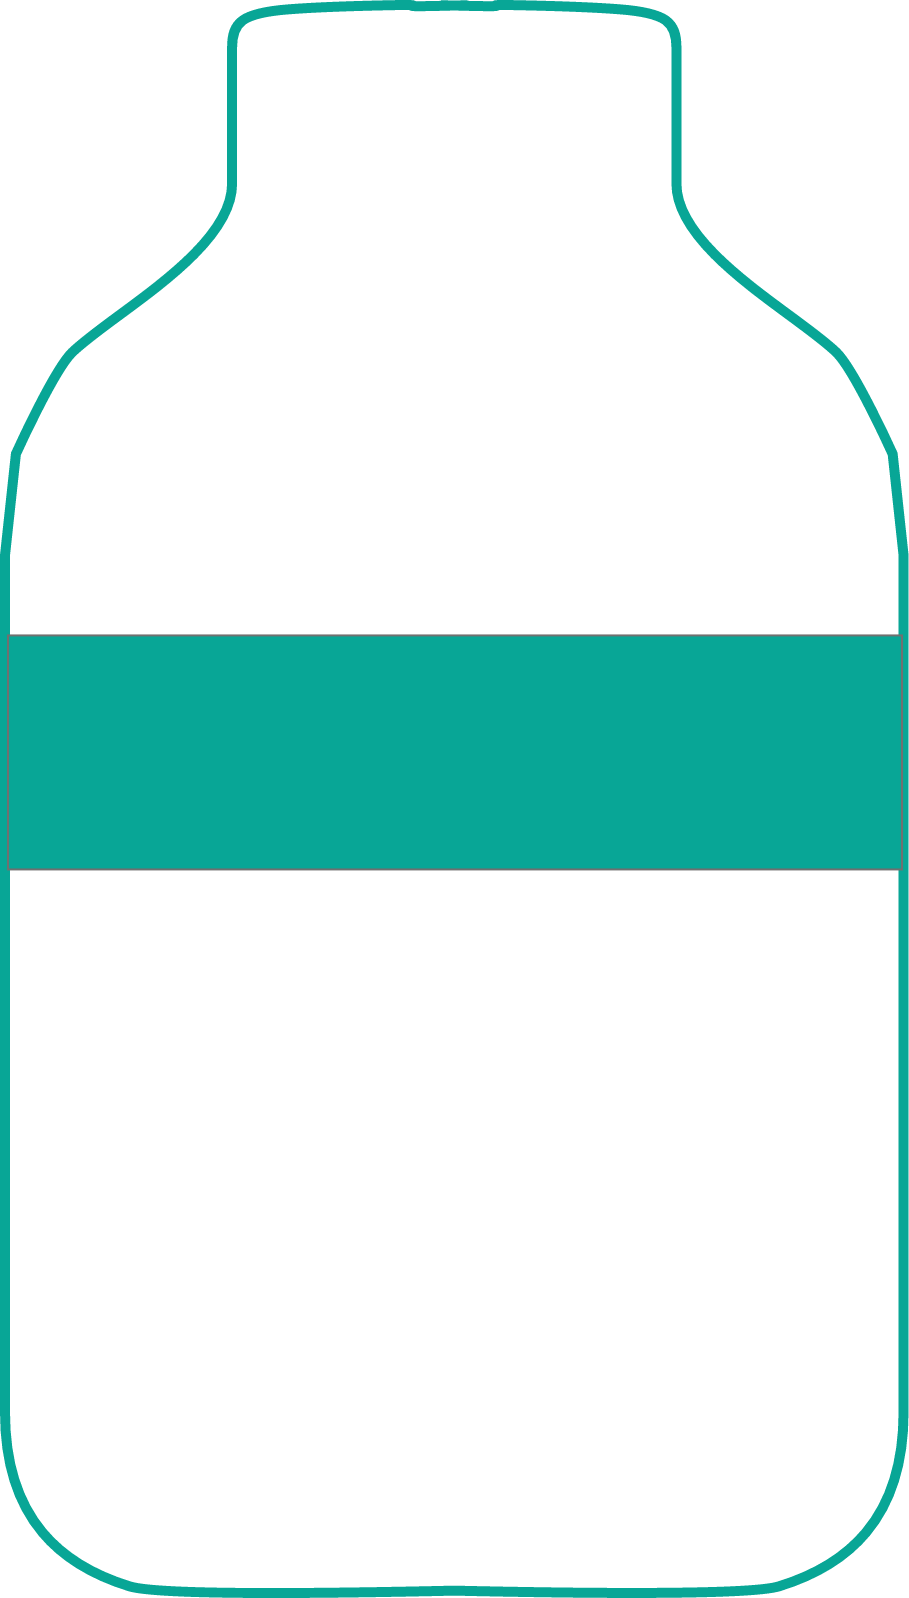
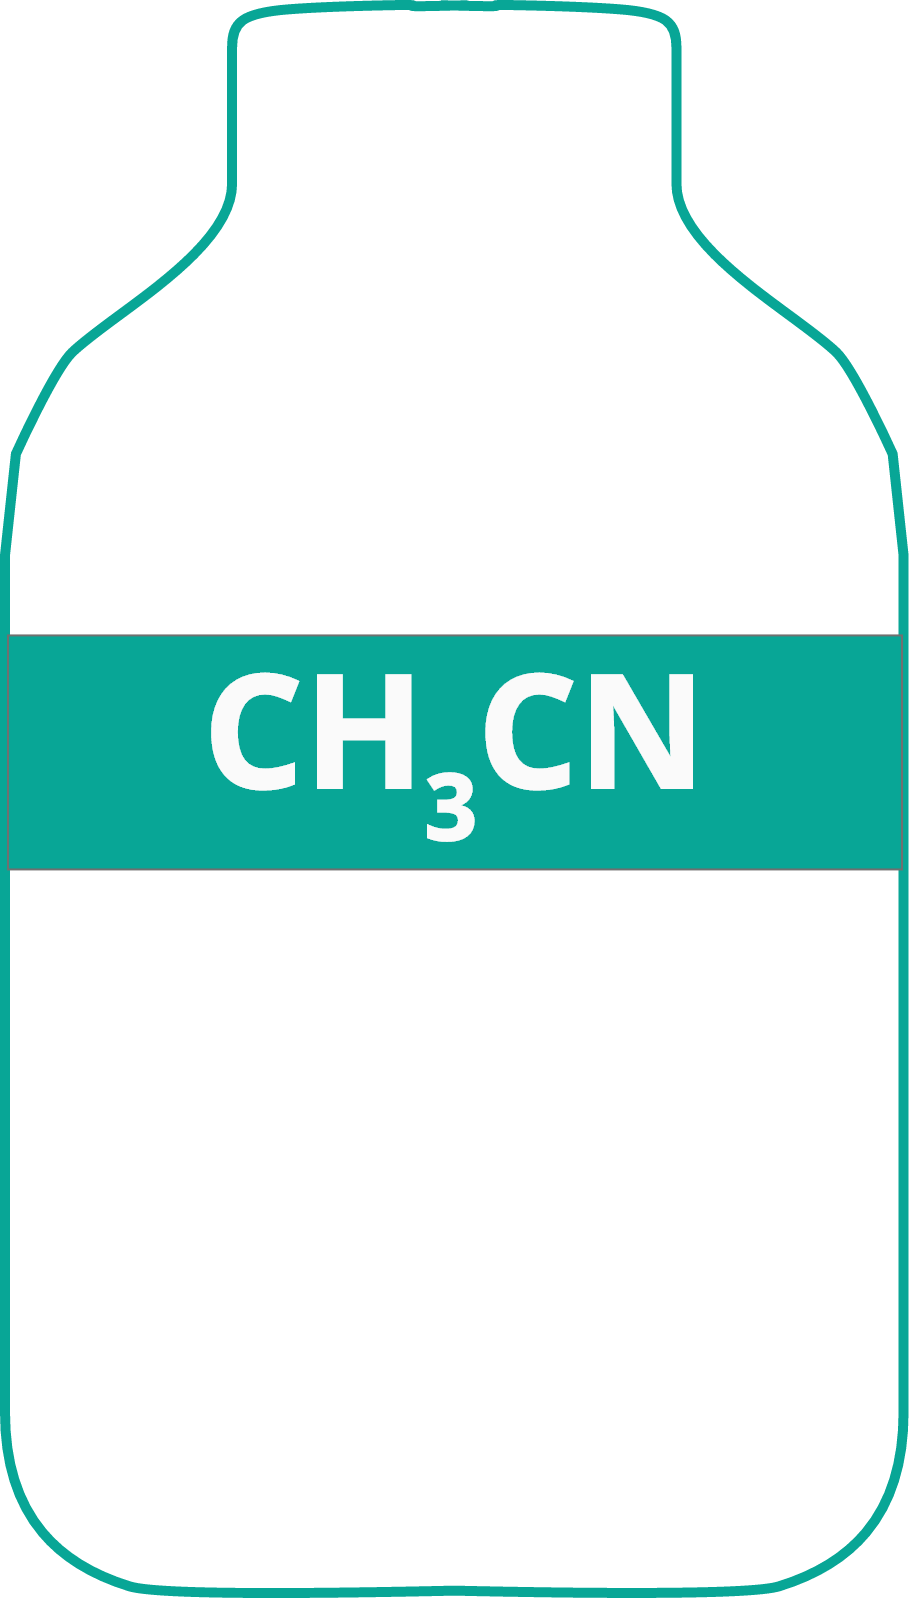
made some client changes

Changed region(s): [[0.2156, 0.3986, 0.7701, 0.5519]]

diff --git a/src/app.js b/src/app.js
@@ -9,6 +9,9 @@ const ranges = [[[.955, 1.5], [2.352, 3.23], [3.23, 4.345]],
 [[.96, 1.5], [1.93, 3.685], [4.655, 7.215]],
 [[1.5, 2.265], [2.265, 3.5], [5.605, 8.745]]
 ];
+const columnInfo = ', C18 Reverse Phase, 100 mm long, 5 µm particles';
+const solventA = ' H<sub>2</sub>O';
+const solventB = ' CH<sub>3</sub>CN';
 var ratioNum = JSON.parse(sessionStorage["ratioNum"]);
 var caseNum = JSON.parse(sessionStorage['caseNum']);
 var runStatus = JSON.parse(sessionStorage['runStatus']);
@@ -107,7 +110,7 @@ function selectOption() {
         if (runStatus[i]) {
             ratioNum = JSON.parse(sessionStorage["ratioNum"]);
             var c = document.createElement("option");
-            c.text = percentsA[i] + ' Solvent A, ' + percentsB[i] + ' Solvent B ';
+            c.text = percentsA[i] + ' H2O, ' + percentsB[i] + " CH3CN";
             selectra.options.add(c, i);
         }
     }
@@ -119,9 +122,9 @@ function selectOption() {
             var graphID = 'graph' + graphNum;
             var graphTitleID = graphID + 'Title';
             //console.log(caseStartPath + caseNames[caseNum] + '/' + chromPics[i]);
-            console.log(graphTitleID);
+            //console.log(graphTitleID);
             document.getElementById(graphID).src = caseStartPath + caseNames[caseNum] + '/' + chromPics[i];
-            document.getElementById(graphTitleID).innerHTML = percentsA[i] + ' Solvent A, ' + percentsB[i] + ' Solvent B ';
+            document.getElementById(graphTitleID).innerHTML = percentsA[i] + solventA + ', ' + percentsB[i] + solventB;
             graphNum++;
         }
     }
@@ -141,7 +144,7 @@ async function chartChrom(path) {
 
     // Add the title of the chromatogram to the page
     var caseName = caseNames[caseNum].substring(0, caseNames[caseNum].length - 1) + ' ' + caseNames[caseNum].substring(caseNames[caseNum].length - 1);
-    const title = caseName + ': ' + percentsA[ratioNum] + ' Solvent A, ' + percentsB[ratioNum] + ' Solvent B ';
+    const title = caseName + ': ' + percentsA[ratioNum] + solventA + ', ' + percentsB[ratioNum] + solventB + columnInfo;
     document.getElementById("chrom-chart-title").innerHTML = title;
     document.getElementById("chrom-chart-title").style.opacity = 1;
 
@@ -438,10 +441,14 @@ function areaInfo() {
 function submitChoice() {
     var content = document.getElementById("selectRatio").value;
     var choice = content.match(/\d+/g);
-    if (choice != "55,45") {
-
-        alert("This one (" + content + ") will not work. Please select another ratio!");
-    } else {
+    console.log('choice: ' + choice);
+    if (choice != "55,2,45,3" && choice != "30,2,70,3") {
+        alert("This one (" + content + ") will not work. Peaks may not be fully separated. Please select another ratio!");
+    } 
+    else if (choice == "30,2,70,3") {
+        alert("This one (" + content + ") will not work. Peaks may be cut off at the end. Please select another ratio!")
+    }
+    else {
         window.location.href = "best-separation.html";
     }
 }
@@ -455,7 +462,7 @@ async function chartBest() {
 
     // Add the title of the chromatogram to the page
     var caseName = caseNames[caseNum].substring(0, caseNames[caseNum].length - 1) + ' ' + caseNames[caseNum].substring(caseNames[caseNum].length - 1);
-    const title = caseName + ': ' + percentsA[ratioNum] + ' Solvent A, ' + percentsB[ratioNum] + ' Solvent B ';
+    const title = caseName + ': ' + percentsA[ratioNum] + solventA + ', ' + percentsB[ratioNum] + solventB;
     document.getElementById("chrom-chart-title").innerHTML = title;
     document.getElementById("chrom-chart-title").style.opacity = 1;
 
@@ -1205,6 +1212,7 @@ function selectCmpd(num) {
     third = calibrationPath3;
     forth = calibrationPath4;
 
+    document.getElementById("calibrationDownload").style.opacity = 1;
     document.getElementById("calibrationDownload").href = calibrationDownloadPath;
     document.getElementById("calibrationDownload").download = calibrationDownloadName;
     document.getElementById("calibrationTitle").innerText = calibrationTitleText;
@@ -1296,4 +1304,5 @@ async function chartOverlay() {
         }
     });
     document.getElementById("finish").style.opacity = 1;
+    document.getElementById('try-again').style.opacity = 1;
 }

diff --git a/src/calibration-overlay.html b/src/calibration-overlay.html
@@ -14,20 +14,22 @@
         <a style= "font-size: 130%; ">CHEM230L: Drug Doping Lab</a>
     </div>
     <div class="flex-container" style="flex-direction: row; justify-content: space-between; margin:1%; margin-bottom: 0;" >
-        <a href="calibration-selection.html">
-        <button class="Arrow" style="background-color: #08A696; transform: rotate(270deg); width: 4vw; height: 4vw;"></button>
-        </a>
-        <h1 class="header text" style="font-weight: bold; color: #096073; font-size: 180%;" id="calibrationTitle">Calibration Curve</h1>
+        <h1></h1>
+        <h1 class="header text" style="font-weight: bold; color: #096073; font-size: 2.8vw;" id="calibrationTitle">Calibration Curve</h1>
         <a id="calibrationDownload"></a>
     </div>
-    <h4 class="text" style="font-size: 80%; margin: .7%;">Tip: Click on the legends to hide and show the graphs.</h4>
+    <h4 class="text" style="font-size: 1.5vw; margin: .7%; color: #A3D86C;">Tip: Click on the legends to hide and show the graphs.</h4>
 
     <div class="charts-container">
         <h4 class = "text" class="Hover-Info" id="InfoOverLay", width="800", height="400", style="opacity: 0; margin: auto; text-align: center;" >Peak 1 Area = %%%</h4>
         <canvas id="chromOverlay" width="800" height="400" margin="auto" display="block"></canvas>
     </div>
-    <div class="flex-container text" style="flex-direction: row;">
-        <a><button id= "finish" class="GreenButton text" type= "submit" style= "width: 7vw; height: 3vw; margin:20px; opacity: 0;" onclick="alert('Congrats! This is the end of the lab. Click on the back button to check out calibration graphs of other compounds.');">Finish</button>
+    <div class="flex-container text" style="flex-direction: column;">
+        <h1 style="color:#096073; font-size: 1.5vw;">If you have collected all the data that you need, you are done with the data <br>collection part of the lab and can move onto the data analysis. Click Try Again <br>to run another calibration </h1>
+        <a href="calibration-selection.html">
+            <button id="try-again" class="GreenButton" style=" margin:20px; opacity: 1; height: 3vw">Try Again</button>
+        </a>
+        <!--<a><button id= "finish" class="GreenButton text" type= "submit" style= "width: 7vw; height: 3vw; margin:20px; opacity: 1;" onclick="alert('Congrats! This is the end of the lab. Click on the back button to check out calibration graphs of other compounds.');">Finish</button>-->
     </div>
 </body>
 <script src="app.js">chartOverlay()</script>

diff --git a/src/hover-real-time.html b/src/hover-real-time.html
@@ -20,14 +20,14 @@
         <button id='download' class="Download" style="opacity: 0; align-self: flex-end;" disabled></button>
         </a>
     </div>
-    <h4 id="hover-tip" class="text" style=" text-align: left; font-size: 80%; margin: .7%; color: #A3D86C; opacity: 0; margin-left: 7vw;">Tip: Hover over each peak to show its area.</h4>
+    <h4 id="hover-tip" class="text" style=" text-align: left; font-size: 2vw; margin: .7%; color: #A3D86C; opacity: 0; margin-left: 7vw;">Tip: Explore the graph by hovering over the peaks.</h4>
     <div class="chart-container" style="margin:1vw;">
         <canvas id="chrom" width="800" height="400" margin="auto" display="block"></canvas>
         <div class="flex-container text" style="flex-direction: column; justify-content: space-between;">
             <p id="hover-info" style=" text-align: left; opacity: 0; color: #096073;" margin="auto", display="block">Area (1)= XXXXXXX</p>
             <div class="flex-container text" style="flex-direction: row;">
                 <a><button id= "again" class="GreenButton text" type= "submit" disabled = true style= "width: 10vw; height: 3vw; opacity: 0; margin-right: 1vw;" onclick="location= 'add-solvent.html'">Try Again</button>
-                <a><button id= "next" class="GreenButton text" type= "submit" style= "width: 6vw; height: 3vw; opacity: 0;" onclick="location= 'select-best-separation.html'">Next</button>
+                <a><button id= "next" class="GreenButton text" type= "submit" style= "width: 6vw; height: 3vw; opacity: 0;" onclick="location= 'select-best-separation.html'">Finalize Method</button>
             </div>
             
         </div>

diff --git a/src/calibration-real-time.html b/src/calibration-real-time.html
@@ -16,12 +16,12 @@
     <div class="flex-container" style="flex-direction: row; justify-content: space-between; margin:1%; margin-bottom: 0;" >
         <a href="calibration-selection.html">
         </a>
-        <h1 class="header text" style="font-weight: bold; color: #096073; font-size: 180%;" id="calibrationTitle">Calibration Curve</h1>
+        <h1 class="header text" style="font-weight: bold; color: #096073; font-size: 2.5vw" id="calibrationTitle">Calibration Curve</h1>
         <a href="" download="" id="calibrationDownload">
         <button class="Download" style="opacity: 0;"></button>
         </a>
     </div>
-    <h4 class="text" style="font-size: 80%; margin: .7%; color: #096073">Tip: Hover over each peak to show its area and width of the base.</h4>
+    <h4 class="text" style="font-size: 1.5vw; margin: .7%; color: #096073">Tip: Explore the graph by hovering over the peaks.</h4>
 
     <div class="charts-container">
         <h4 class = "text" class="Hover-Info" id="Info1", width="800", height="400", style="opacity: 0; margin: auto; text-align: center; color: #A3D86C" >Peak 1 Area = %%%</h4>

diff --git a/src/calibration-selection.html b/src/calibration-selection.html
@@ -12,11 +12,11 @@
         <a style= "font-size: 130%; ">CHEM230L: Drug Doping Lab</a>
     </div>
     <div class="flex-container" style="flex-direction: row; justify-content: space-between; margin:1%" >
-        <button class="Arrow" style="background-color: #08A696; transform: rotate(270deg); width: 4vw; height: 4vw;"></button>
+        <button class="Arrow" style="background-color: #08A696; transform: rotate(270deg); width: 4vw; height: 4vw;" onclick="location='best-separation.html'"></button>
         <!--<h1 class="header text" style="font-weight: bold; color: #096073; font-size: 180%;">Calibration Compound Selection</h1>-->
     </div>
     <div>
-        <p class="text" style= "color: #096073; font-size: 230%;">Choose a compound from the dropdown <br> menu and click Run</p>
+        <p class="text" style= "color: #096073; font-size: 3vw;">Choose a compound from the dropdown menu and click <br> Run to see the calibration graphs</p>
     </div>
     <div class="flex-container" style="flex-direction: row;">
         <form>  

diff --git a/src/index.css b/src/index.css
@@ -16,13 +16,14 @@ body {
     text-align: center;
 }
 
-/* Format the bar at the top of each page
-source: https://www.w3schools.com/howto/howto_js_topnav.asp*/
+/* source: https://www.w3schools.com/howto/howto_js_topnav.asp*/
+/* Add a black background color to the top navigation */
 .topNav {
     background-color: #096073;
     overflow: hidden;
 }
 
+/* Style the links inside the navigation bar */
 .topNav a {
     float: left;
     color: white;
@@ -31,12 +32,18 @@ source: https://www.w3schools.com/howto/howto_js_topnav.asp*/
     text-decoration: none;
     font-size: 5%;
 }
-/*
-.topNav a.active {
-    background-color: #A3D86C;
+
+/* Change the color of links on hover */
+.topnav a:hover {
+    background-color: #ddd;
+    color: #096073;
+  }
+  
+  /* Add a color to the active/current link */
+  .topnav a.active {
+    background-color: #4CAF50;
     color: white;
-}
-*/
+  }
 
 /* Format the green buttons */
 .GreenButton {

diff --git a/src/add-solvent.html b/src/add-solvent.html
@@ -43,7 +43,7 @@
             </div>
         </div>
         <div class="flex-container" style=" flex-direction: column; align-self: flex-end;">
-            <button id= "selectButton" class="GreenButton text" type= "submit" style= "width: auto; height: 3vw; margin-bottom: 2vw; margin-right: 1vw;" onclick="location='select-ratio.html'">Select Best</button>
+            <button id= "selectButton" class="GreenButton text" type= "submit" style= "width: auto; height: 3vw; margin-bottom: 2vw; margin-right: 1vw;" onclick="location='select-best-separation.html'">Finalize Method</button>
             <button id= "runButton" class="GreenButton text" type= "submit" style= "width: 6vw; height: 3vw; " onclick="location='hover-real-time.html'">Run</button>
         </div>
     </div>

diff --git a/src/best-separation.html b/src/best-separation.html
@@ -20,7 +20,7 @@
         <button id='download' class="Download" style="opacity: 0; align-self: flex-end;" disabled></button>
         </a>
     </div>
-    <h4 id="hover-tip" class="text" style=" text-align: left; font-size: 80%; margin: .7%; color: #A3D86C; opacity: 0; margin-left: 7vw;">Tip: Hover over each peak to show its area.</h4>
+    <h4 id="hover-tip" class="text" style=" text-align: left; font-size: 2vw; margin: .7%; color: #A3D86C; margin-left: 7vw;">Tip: Click under each peak to see the mass spectra.</h4>
     <div class="chart-container" style="margin:1vw;">
         <canvas id="bestChrom" width="800" height="400" margin="auto" display="block"></canvas>
         <div class="flex-container text" style="flex-direction: column; justify-content: space-between;">
